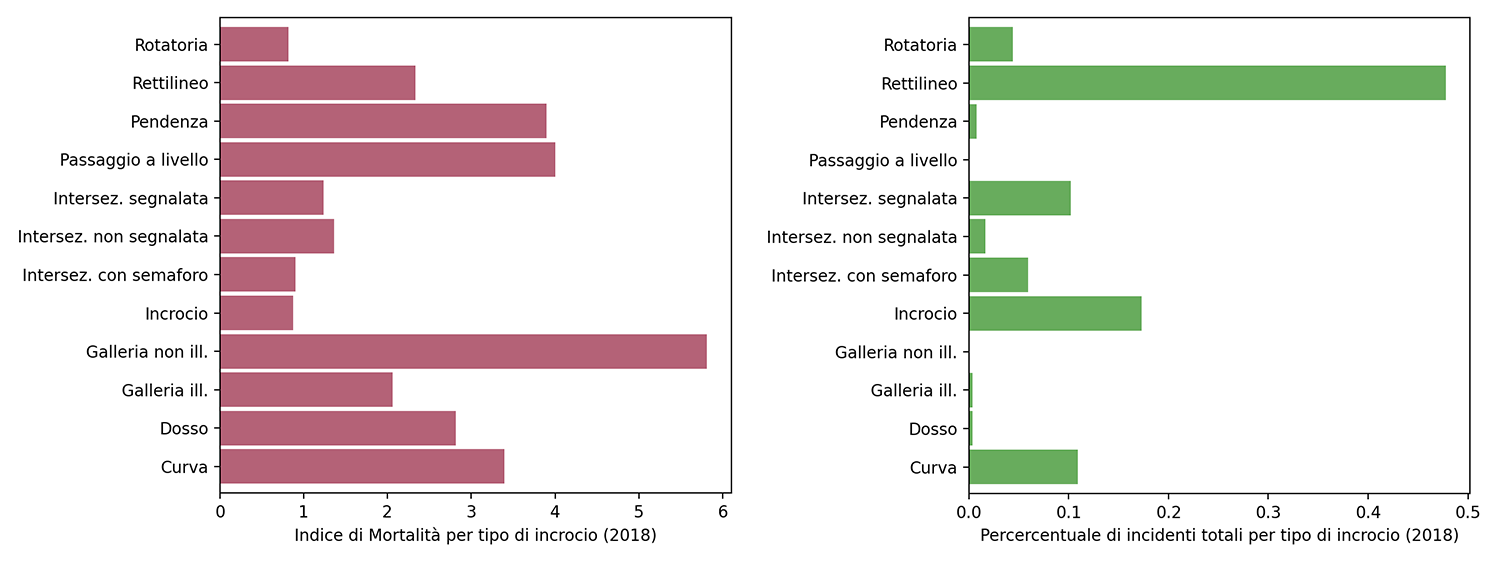
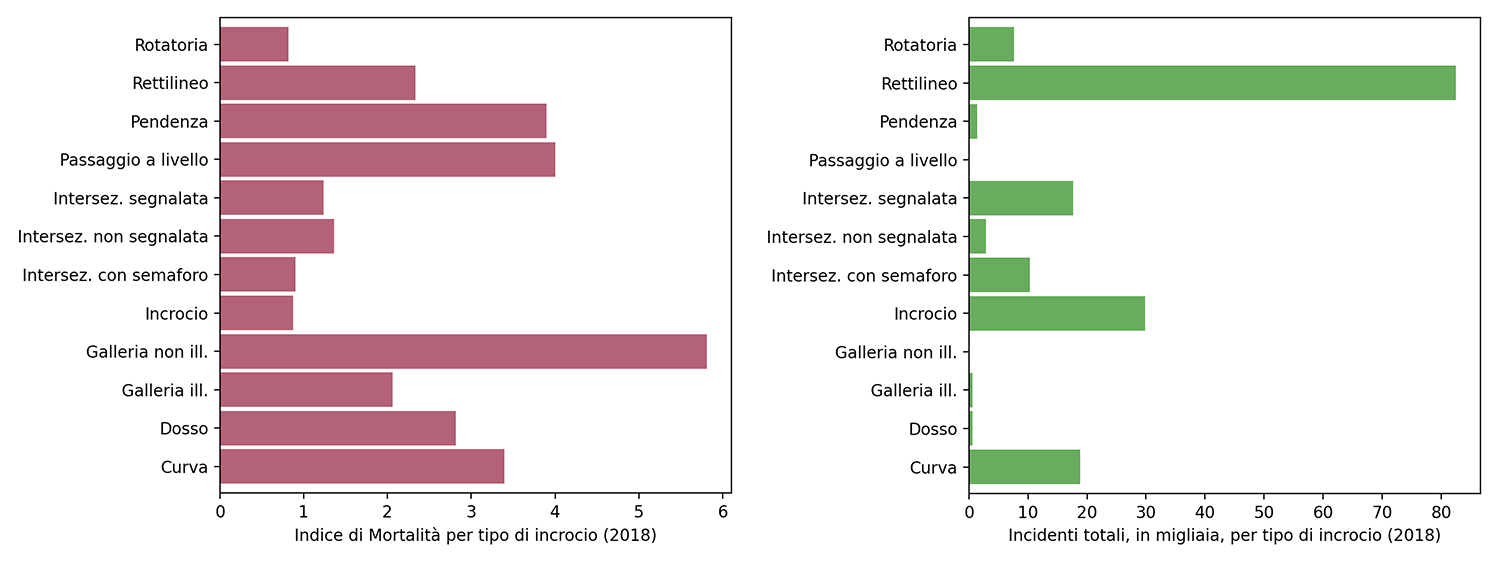
correzione della scala di grafi adiacenti

Changed region(s): [[0.9519, 0.0302, 1.0, 0.8772], [0.6449, 0.8772, 0.9826, 0.968], [0.737, 0.5445, 0.7677, 0.5747]]

diff --git a/src/incidenti/incidenti_senza_coords/localizzazione_incidente/intersezioni.py b/src/incidenti/incidenti_senza_coords/localizzazione_incidente/intersezioni.py
@@ -15,11 +15,12 @@ intersezione_labels = label_utils.join_labels(
     "dataset/incidenti/istat/Classificazioni/intersezione_o_non_interse3.csv"
     ).value_counts().sort_index()
 
-intersezione_labels /= intersezione_labels.sum()
+# Tengo scala in decine di migliaia
+intersezione_labels /= 1000
 intersezione_labels = intersezione_labels.sort_index()
 
 intersezione_labels.plot.barh(color=['#77aa66'], width=0.9)
-plt.xlabel("Percercentuale di incidenti totali per tipo di incrocio (2018)")
+plt.xlabel("Incidenti totali, in migliaia, per tipo di incrocio (2018)")
 plt.ylabel("")
 plt.tight_layout()
 plt.show()
